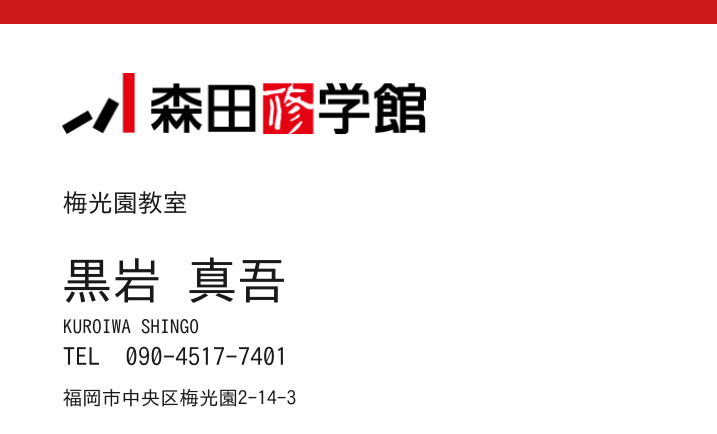
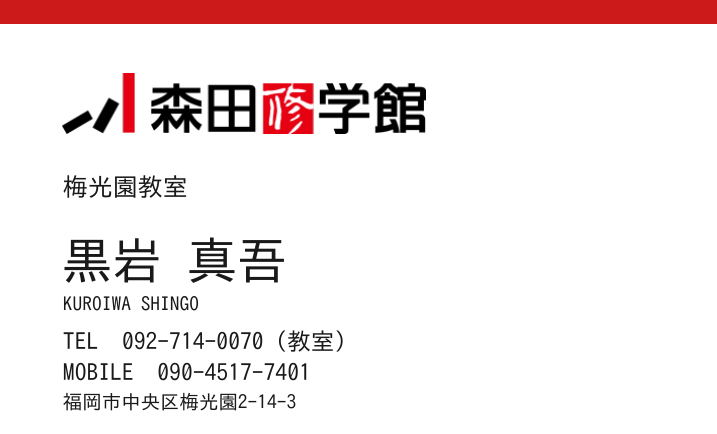
Add classroom phone number to business card
Claude-Session: https://claude.ai/code/session_01UZjDUjJeLbn963uYfeSaJM

Changed region(s): [[0.0614, 0.5392, 0.4909, 0.9585], [0.0921, 0.3894, 0.2762, 0.5092]]

diff --git a/meishi/make.py b/meishi/make.py
@@ -10,9 +10,10 @@ c=canvas.Canvas('meishi/meishi.pdf',pagesize=(W,H))
 c.setFillColorRGB(0.8,0.1,0.1); c.rect(0,H-3*mm,W,3*mm,stroke=0,fill=1)
 lw=46*mm; c.drawImage('meishi/logo.png',8*mm,H-17*mm,width=lw,height=lw/6,mask='auto')
 c.setFillColorRGB(0.1,0.1,0.1)
-c.setFont('G',9); c.drawString(8*mm,H-27*mm,'梅光園教室')
-c.setFont('G',18); c.drawString(8*mm,H-38*mm,'黒岩 真吾')
-c.setFont('G',7); c.drawString(8*mm,H-42.5*mm,'KUROIWA SHINGO')
-c.setFont('G',9); c.drawString(8*mm,H-46.5*mm,'TEL  090-4517-7401')
-c.setFont('G',7); c.drawString(8*mm,H-51.5*mm,'福岡市中央区梅光園2-14-3')
+c.setFont('G',9); c.drawString(8*mm,H-25*mm,'梅光園教室')
+c.setFont('G',18); c.drawString(8*mm,H-35.5*mm,'黒岩 真吾')
+c.setFont('G',7); c.drawString(8*mm,H-39.5*mm,'KUROIWA SHINGO')
+c.setFont('G',8.5); c.drawString(8*mm,H-44.5*mm,'TEL  092-714-0070（教室）')
+c.drawString(8*mm,H-48.5*mm,'MOBILE  090-4517-7401')
+c.setFont('G',7); c.drawString(8*mm,H-52*mm,'福岡市中央区梅光園2-14-3')
 c.save()
